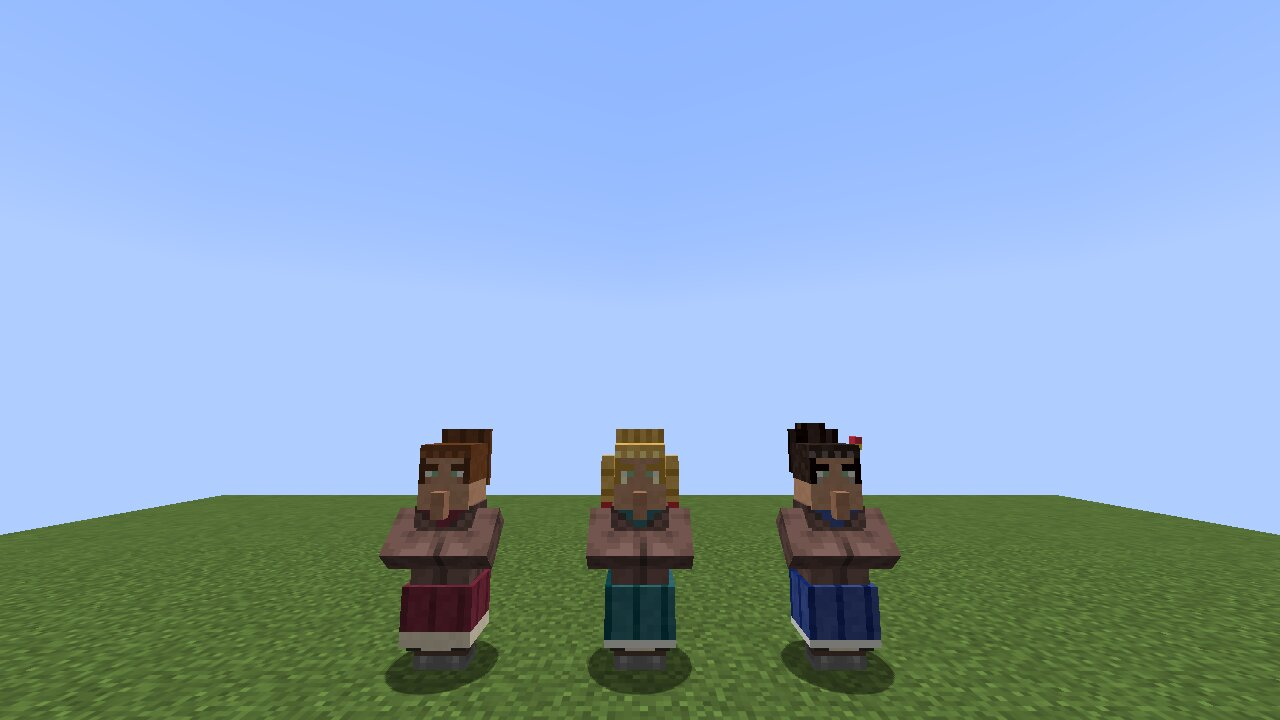
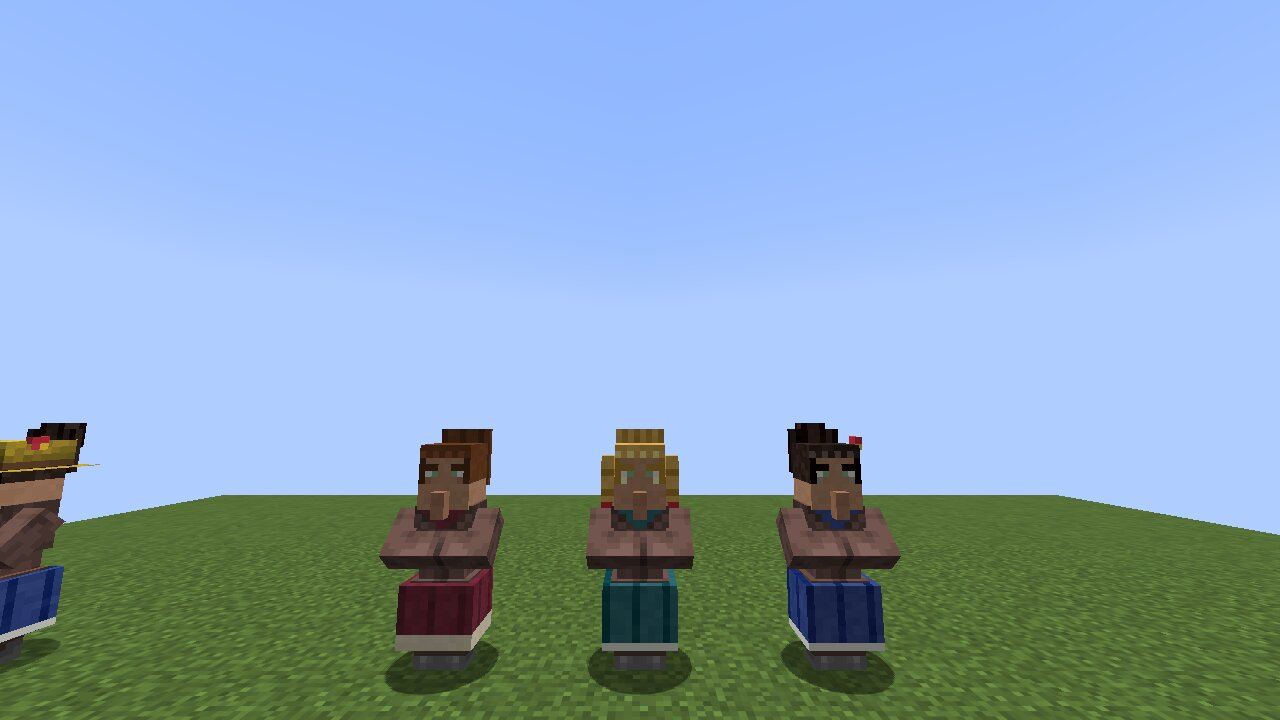
feat: give villager women a waist
Adult women draw a figure instead of the straight body and robe boxes:
full chest, a 6x4x5 waist, and the skirt flaring out as hips. skipDraw
hides the vanilla boxes while their children still render. The figure
parts reuse the texture rows of body and robe, so base skin, biome and
profession clothes keep fitting.

Claude-Session: https://claude.ai/code/session_01EiGtYFxobCFbXvBrcDqVrL

diff --git a/src/gametest/java/net/frank/mc3ver/gametest/VillagerWomanLooksClientGameTest.java b/src/gametest/java/net/frank/mc3ver/gametest/VillagerWomanLooksClientGameTest.java
@@ -8,12 +8,17 @@ import net.fabricmc.fabric.api.client.gametest.v1.screenshot.TestScreenshotOptio
 import net.frank.mc3ver.village.VillagerGenderLogic;
 
 // Alle Aussehen der Bewohnerin nebeneinander, von vorn, schräg von vorn und schräg von hinten, zum Vergleichen.
+// Dazu Figur mit Taille und Hüfte neben einem Bewohner, ohne und mit Beruf.
 // Aufruf: ./gradlew runClientGameTest, Screenshots unter build/run/clientGameTest/screenshots
 public class VillagerWomanLooksClientGameTest implements FabricClientGameTest {
 
     private static final int Y = 150;
     private static final int LOOKS = 3;
     private static final double X = 3.5;
+    private static final double FIGURES_Z = -8.0;
+    private static final double PROFILE_Z = 8.5;
+    private static final String FARMER =
+            "VillagerData:{profession:\"minecraft:farmer\",level:2,type:\"minecraft:plains\"},";
 
     @Override
     public void runTest(ClientGameTestContext context) {
@@ -29,24 +34,41 @@ public class VillagerWomanLooksClientGameTest implements FabricClientGameTest {
                 UUID uuid = new UUID(9L, (long) look << 1);
                 check(VillagerGenderLogic.isFemale(uuid), "UUID nicht weiblich");
                 check(VillagerGenderLogic.look(uuid, LOOKS) == look, "UUID wählt falsches Aussehen");
-                summon(X, 1.8 * (look - 1) + 0.5, uuid, game);
+                summon(X, 1.8 * (look - 1) + 0.5, uuid, 90, "", game);
             }
-            shot(context, game, "villager_women_front", -1.0, 0.6, 0.5);
-            shot(context, game, "villager_women_diagonal", -0.5, 0.6, -3.5);
-            shot(context, game, "villager_women_back", 7.0, 0.6, -2.8);
+            // Figur: Bewohner und Bewohnerin ohne und mit Beruf von vorn, dazu beide im Profil
+            summon(X, FIGURES_Z - 2.4, new UUID(10L, 1L), 90, "", game);
+            summon(X, FIGURES_Z - 0.8, new UUID(10L, 0L), 90, "", game);
+            summon(X, FIGURES_Z + 0.8, new UUID(10L, 3L), 90, FARMER, game);
+            summon(X, FIGURES_Z + 2.4, new UUID(10L, 4L), 90, FARMER, game);
+            summon(X, PROFILE_Z - 1.0, new UUID(11L, 1L), 0, "", game);
+            summon(X, PROFILE_Z + 1.0, new UUID(11L, 0L), 0, "", game);
+
+            shot(context, game, "villager_women_front", -1.0, 0.6, 0.5, 0.5);
+            shot(context, game, "villager_women_diagonal", -0.5, 0.6, -3.5, 0.5);
+            shot(context, game, "villager_women_back", 7.0, 0.6, -2.8, 0.5);
+            shot(context, game, "villager_figure_front", -1.0, 0.6, FIGURES_Z, FIGURES_Z);
+            shot(context, game, "villager_figure_profile", -1.5, 0.6, PROFILE_Z, PROFILE_Z);
+            shot(context, game, "villager_figure_back", 8.0, 0.8, PROFILE_Z - 4.0, PROFILE_Z);
         }
     }
 
     private static void shot(
-            ClientGameTestContext context, TestSingleplayerContext game, String name, double x, double dy, double z) {
+            ClientGameTestContext context,
+            TestSingleplayerContext game,
+            String name,
+            double x,
+            double dy,
+            double z,
+            double targetZ) {
         game.getServer()
-                .runCommand("tp @p " + x + " " + (Y + dy) + " " + z + " facing " + X + " " + (Y + 1.2) + " 0.5");
+                .runCommand("tp @p " + x + " " + (Y + dy) + " " + z + " facing " + X + " " + (Y + 1.2) + " " + targetZ);
         game.getConnection().waitForChunksRender();
         context.waitTicks(20);
         context.takeScreenshot(TestScreenshotOptions.of(name).withSize(1280, 720));
     }
 
-    private static void summon(double x, double z, UUID uuid, TestSingleplayerContext game) {
+    private static void summon(double x, double z, UUID uuid, int yaw, String nbt, TestSingleplayerContext game) {
         int[] ints = {
             (int) (uuid.getMostSignificantBits() >> 32),
             (int) uuid.getMostSignificantBits(),
@@ -54,8 +76,8 @@ public class VillagerWomanLooksClientGameTest implements FabricClientGameTest {
             (int) uuid.getLeastSignificantBits()
         };
         game.getServer()
-                .runCommand("summon villager " + x + " " + Y + " " + z + " {NoAI:1b,Rotation:[90f,0f],UUID:[I;"
-                        + ints[0] + "," + ints[1] + "," + ints[2] + "," + ints[3] + "]}");
+                .runCommand("summon villager " + x + " " + Y + " " + z + " {NoAI:1b,Rotation:[" + yaw + "f,0f]," + nbt
+                        + "UUID:[I;" + ints[0] + "," + ints[1] + "," + ints[2] + "," + ints[3] + "]}");
     }
 
     private static void check(boolean ok, String message) {

diff --git a/src/client/java/net/frank/mc3ver/client/VillagerWomanFigure.java b/src/client/java/net/frank/mc3ver/client/VillagerWomanFigure.java
@@ -1,0 +1,64 @@
+package net.frank.mc3ver.client;
+
+import net.minecraft.client.model.geom.ModelPart;
+import net.minecraft.client.model.geom.PartPose;
+import net.minecraft.client.model.geom.builders.CubeDeformation;
+import net.minecraft.client.model.geom.builders.CubeListBuilder;
+import net.minecraft.client.model.geom.builders.PartDefinition;
+import net.minecraft.client.renderer.entity.state.VillagerRenderState;
+
+/**
+ * Figur der Bewohnerin im Vanilla-Villagermodell: schmale Taille, darunter setzt der Rock als Hüfte an. Körper und
+ * Gewand (jacket) sind gerade Quader; für Bewohnerinnen blendet skipDraw sie aus und die Figur-Teile darunter
+ * übernehmen. Die Teile liegen auf denselben Texturzeilen wie Körper und Gewand, damit Grundskin, Biom- und
+ * Berufskleidung weiter passen.
+ */
+public final class VillagerWomanFigure {
+
+    static final String FIGURE = "mc3ver_woman_figure";
+    private static final String BODY = "body";
+    private static final String JACKET = "jacket";
+
+    private VillagerWomanFigure() {}
+
+    /** Ergänzt das Mesh aus VillagerModel.createBodyModel um die Figur-Teile. */
+    public static void addTo(PartDefinition root) {
+        PartDefinition body = root.getChild(BODY);
+        // Körper: texOffs(16,20), 8x12x6. Brust und Hüftsaum exakt, Taille 6x4x5 auf den Zeilen 33..37
+        body.addOrReplaceChild(
+                FIGURE,
+                CubeListBuilder.create()
+                        .texOffs(16, 20)
+                        .addBox(-4.0f, 0.0f, -3.0f, 8.0f, 7.0f, 6.0f)
+                        .texOffs(18, 28)
+                        .addBox(-3.0f, 7.0f, -2.5f, 6.0f, 4.0f, 5.0f)
+                        .texOffs(16, 31)
+                        .addBox(-4.0f, 11.0f, -3.0f, 8.0f, 1.0f, 6.0f),
+                PartPose.ZERO);
+        // Gewand: texOffs(0,38), 8x20x6 mit 0.5 Aufschlag. Oben und unten exakt, dazwischen die Taille.
+        // Die Hüfte bildet der Rock aus VillagerWomanModel
+        body.getChild(JACKET)
+                .addOrReplaceChild(
+                        FIGURE,
+                        CubeListBuilder.create()
+                                .texOffs(0, 38)
+                                .addBox(-4.0f, 0.0f, -3.0f, 8.0f, 7.0f, 6.0f, new CubeDeformation(0.5f))
+                                .texOffs(2, 46)
+                                .addBox(-3.0f, 7.0f, -2.5f, 6.0f, 4.0f, 5.0f, new CubeDeformation(0.5f))
+                                .texOffs(0, 49)
+                                .addBox(-4.0f, 11.0f, -3.0f, 8.0f, 9.0f, 6.0f, new CubeDeformation(0.5f)),
+                        PartPose.ZERO);
+    }
+
+    /** Schaltet zwischen geradem Körper und Figur um; jedes setupAnim, weil ein Modell alle Dorfbewohner zeichnet. */
+    public static void apply(ModelPart root, VillagerRenderState state) {
+        ModelPart body = root.getChild(BODY);
+        if (!body.hasChild(FIGURE)) return;
+        ModelPart jacket = body.getChild(JACKET);
+        boolean figure = !state.isBaby && VillagerWomanClient.isFemale(state);
+        body.skipDraw = figure;
+        jacket.skipDraw = figure;
+        body.getChild(FIGURE).visible = figure;
+        jacket.getChild(FIGURE).visible = figure;
+    }
+}

diff --git a/src/gametest/java/net/frank/mc3ver/client/VillagerWomanFigureClientGameTest.java b/src/gametest/java/net/frank/mc3ver/client/VillagerWomanFigureClientGameTest.java
@@ -1,0 +1,48 @@
+package net.frank.mc3ver.client;
+
+import net.fabricmc.fabric.api.client.gametest.v1.FabricClientGameTest;
+import net.fabricmc.fabric.api.client.gametest.v1.context.ClientGameTestContext;
+import net.minecraft.client.model.geom.ModelLayerLocation;
+import net.minecraft.client.model.geom.ModelLayers;
+import net.minecraft.client.model.geom.ModelPart;
+import net.minecraft.client.model.npc.VillagerModel;
+import net.minecraft.client.renderer.entity.state.VillagerRenderState;
+
+// Erwachsene Bewohnerinnen zeichnen die Figur mit Taille statt der geraden Quader, Bewohner und Babys nicht.
+// Ein Modell zeichnet alle Dorfbewohner nacheinander, das Umschalten muss deshalb in beide Richtungen greifen.
+public class VillagerWomanFigureClientGameTest implements FabricClientGameTest {
+
+    @Override
+    public void runTest(ClientGameTestContext context) {
+        context.runOnClient(client -> {
+            for (ModelLayerLocation layer :
+                    new ModelLayerLocation[] {ModelLayers.VILLAGER, ModelLayers.VILLAGER_NO_HAT}) {
+                VillagerModel model = new VillagerModel(client.getEntityModels().bakeLayer(layer));
+                ModelPart body = model.root().getChild("body");
+                ModelPart jacket = body.getChild("jacket");
+
+                model.setupAnim(state(true, false));
+                check(layer + ": Bewohnerin", body, jacket, true);
+                model.setupAnim(state(false, false));
+                check(layer + ": Bewohner", body, jacket, false);
+                model.setupAnim(state(true, true));
+                check(layer + ": Baby", body, jacket, false);
+            }
+        });
+    }
+
+    private static VillagerRenderState state(boolean female, boolean baby) {
+        VillagerRenderState state = new VillagerRenderState();
+        state.setData(VillagerWomanClient.FEMALE, female);
+        state.isBaby = baby;
+        return state;
+    }
+
+    private static void check(String label, ModelPart body, ModelPart jacket, boolean figure) {
+        boolean ok = body.skipDraw == figure
+                && jacket.skipDraw == figure
+                && body.getChild(VillagerWomanFigure.FIGURE).visible == figure
+                && jacket.getChild(VillagerWomanFigure.FIGURE).visible == figure;
+        if (!ok) throw new AssertionError(label + ": Figur erwartet " + figure);
+    }
+}

diff --git a/src/client/java/net/frank/mc3ver/client/mixin/VillagerModelMixin.java b/src/client/java/net/frank/mc3ver/client/mixin/VillagerModelMixin.java
@@ -1,0 +1,26 @@
+package net.frank.mc3ver.client.mixin;
+
+import net.frank.mc3ver.client.VillagerWomanFigure;
+import net.minecraft.client.model.geom.builders.MeshDefinition;
+import net.minecraft.client.model.npc.VillagerModel;
+import net.minecraft.client.renderer.entity.state.VillagerRenderState;
+import org.spongepowered.asm.mixin.Mixin;
+import org.spongepowered.asm.mixin.injection.At;
+import org.spongepowered.asm.mixin.injection.Inject;
+import org.spongepowered.asm.mixin.injection.callback.CallbackInfo;
+import org.spongepowered.asm.mixin.injection.callback.CallbackInfoReturnable;
+
+// Bewohnerinnen bekommen Taille und Hüfte: Figur-Teile im Mesh, Umschalten pro Dorfbewohner in setupAnim
+@Mixin(VillagerModel.class)
+abstract class VillagerModelMixin {
+
+    @Inject(method = "createBodyModel", at = @At("RETURN"))
+    private static void mc3ver$addWomanFigure(CallbackInfoReturnable<MeshDefinition> cir) {
+        VillagerWomanFigure.addTo(cir.getReturnValue().getRoot());
+    }
+
+    @Inject(method = "setupAnim(Lnet/minecraft/client/renderer/entity/state/VillagerRenderState;)V", at = @At("TAIL"))
+    private void mc3ver$toggleWomanFigure(VillagerRenderState state, CallbackInfo unusedCi) {
+        VillagerWomanFigure.apply(((VillagerModel) (Object) this).root(), state);
+    }
+}

diff --git a/src/client/java/net/frank/mc3ver/client/VillagerWomanModel.java b/src/client/java/net/frank/mc3ver/client/VillagerWomanModel.java
@@ -3,6 +3,7 @@ package net.frank.mc3ver.client;
 import net.minecraft.client.model.EntityModel;
 import net.minecraft.client.model.geom.ModelPart;
 import net.minecraft.client.model.geom.PartPose;
+import net.minecraft.client.model.geom.builders.CubeDeformation;
 import net.minecraft.client.model.geom.builders.CubeListBuilder;
 import net.minecraft.client.model.geom.builders.LayerDefinition;
 import net.minecraft.client.model.geom.builders.MeshDefinition;
@@ -27,9 +28,12 @@ final class VillagerWomanModel extends EntityModel<VillagerRenderState> {
         MeshDefinition mesh = new MeshDefinition();
         PartDefinition root = mesh.getRoot();
         root.addOrReplaceChild("head", look.hair(), PartPose.ZERO);
+        // Etwas Aufschlag, sonst liegt der Rock genau auf der Hüfte der Figur (VillagerWomanFigure) und flimmert
         root.addOrReplaceChild(
                 "skirt",
-                CubeListBuilder.create().texOffs(0, 12).addBox(-5.0f, 12.0f, -4.0f, 10.0f, 8.0f, 8.0f),
+                CubeListBuilder.create()
+                        .texOffs(0, 12)
+                        .addBox(-5.0f, 12.0f, -4.0f, 10.0f, 8.0f, 8.0f, new CubeDeformation(0.3f)),
                 PartPose.ZERO);
         return LayerDefinition.create(mesh, 64, 32);
     }

diff --git a/CHANGELOG.md b/CHANGELOG.md
@@ -4,6 +4,11 @@ Alle wichtigen Änderungen am Projekt **WorldExplorerMod (mc-3ver)** werden in d
 
 Das Format basiert auf [Keep a Changelog](https://keepachangelog.com/de/1.0.0/) und das Projekt hält sich an [Semantic Versioning](https://semver.org/lang/de/).
 
+## [0.13.7] - 2026-11-28
+
+### ✨ Neu hinzugefügt
+* **Bewohnerinnen:** Schmalere Taille und ein Rock, der als Hüfte ansetzt. Grundskin, Biom- und Berufskleidung liegen weiter auf der Figur.
+
 ## [0.13.6] - 2026-11-27
 
 ### ✨ Neu hinzugefügt

diff --git a/CHANGELOG_EN.md b/CHANGELOG_EN.md
@@ -4,6 +4,11 @@ All notable changes to the **WorldExplorerMod (mc-3ver)** project will be docume
 
 The format is based on [Keep a Changelog](https://keepachangelog.com/en/1.0.0/), and this project adheres to [Semantic Versioning](https://semver.org/spec/v2.0.0.html).
 
+## [0.13.7] - 2026-11-28
+
+### ✨ Added
+* **Villager women:** A narrower waist with the skirt flaring out as hips. Base skin, biome and profession clothes still fit the figure.
+
 ## [0.13.6] - 2026-11-27
 
 ### ✨ Added
